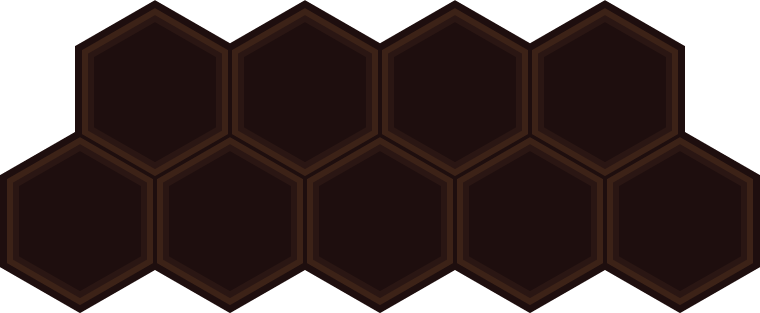
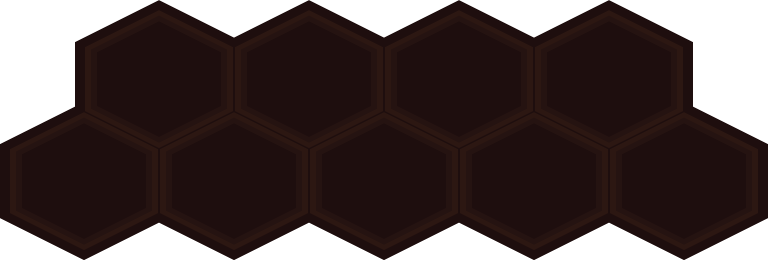
Jason's Commit #1

diff --git a/PhaserMVC/static/js/main.js b/PhaserMVC/static/js/main.js
@@ -1,7 +1,6 @@
-
 /// <reference path="phaser.js" />
-/// <reference path="GameObjects.js" />
-var game = new Phaser.Game(768, 1000, Phaser.AUTO, 'mainDiv');
+/// <reference path="GameObject.js" />
+var game = new Phaser.Game(768, 954, Phaser.AUTO, 'mainDiv');
 var scale = 1;
 
 var mainState = {
@@ -10,10 +9,10 @@ var mainState = {
     
     preload: function () {
         //Load Art Assets
-        game.load.image('gameBoard', 'static/img/GameBoard.png');
-        game.load.image('handBoard', 'static/img/HandBoard.png');
-        game.load.spritesheet('numberSheet', 'static/img/numbers.png', 18, 22, 33);
-        game.load.spritesheet('cardFrameSheet', 'static/img/cardFrameSheet.png', 150, 172, 8);
+        game.load.image('gameBoard', 'img/GameBoard.png');
+        game.load.image('handBoard', 'img/HandBoard.png');
+        game.load.spritesheet('numberSheet', 'img/numbers.png', 18, 22, 33);
+        game.load.spritesheet('cardFrameSheet', 'img/FrameSheet.png', 150, 140, 6);
         
     },
 
@@ -33,112 +32,110 @@ var mainState = {
     },
 
     update: function() {
-       
+        for (var i = 0; i < this.playerHand.length; i++) {
+            this.playerHand.getAt(i).update();
+        }
     },
 
     buildGameBoard: function () {
-        this.gameBoard = game.add.sprite(game.world.centerX, 20 * scale, 'gameBoard');
-        this.gameBoard.anchor.setTo(0.5, 0);
+        this.gameBoard = game.add.sprite(game.world.centerX, Math.round(game.world.centerY - 100 * scale), 'gameBoard');
+        this.gameBoard.anchor.setTo(0.5, 0.5);
 
         // Create a group of empty hexes
         this.emptyGameBoardHexes = game.add.group();
         var gameBoardPositions = [
         //1st Row
             //Hex0
-            { x: Math.round((this.gameBoard.x - 225) * scale), y: Math.round((this.gameBoard.y + 6) * scale) },
+            { x: Math.round((this.gameBoard.x - 150) * scale), y: Math.round((this.gameBoard.y - 204) * scale) },
             //Hex1
-            { x: Math.round((this.gameBoard.x - 75) * scale), y: Math.round((this.gameBoard.y + 6) * scale) },
+            { x: Math.round((this.gameBoard.x + 0) * scale), y: Math.round((this.gameBoard.y - 204) * scale) },
             //Hex2
-            { x: Math.round((this.gameBoard.x + 75) * scale), y: Math.round((this.gameBoard.y + 6) * scale) },
+            { x: Math.round((this.gameBoard.x + 150) * scale), y: Math.round((this.gameBoard.y - 204) * scale) },
 
         //2nd Row
             //Hex3
-            { x: Math.round((this.gameBoard.x - 300) * scale), y: Math.round((this.gameBoard.y + 135) * scale) },
+            { x: Math.round((this.gameBoard.x - 225) * scale), y: Math.round((this.gameBoard.y - 102) * scale) },
             //Hex4
-            { x: Math.round((this.gameBoard.x - 150) * scale), y: Math.round((this.gameBoard.y + 135) * scale) },
+            { x: Math.round((this.gameBoard.x - 75) * scale), y: Math.round((this.gameBoard.y - 102) * scale) },
             //Hex5
-            { x: Math.round((this.gameBoard.x + 0) * scale), y: Math.round((this.gameBoard.y + 135) * scale) },
+            { x: Math.round((this.gameBoard.x + 75) * scale), y: Math.round((this.gameBoard.y - 102) * scale) },
             //Hex6
-            { x: Math.round((this.gameBoard.x + 150) * scale), y: Math.round((this.gameBoard.y + 135) * scale) },
+            { x: Math.round((this.gameBoard.x + 225) * scale), y: Math.round((this.gameBoard.y - 102) * scale) },
 
         //3rd Row
             //Hex7
-            { x: Math.round((this.gameBoard.x - 375) * scale), y: Math.round((this.gameBoard.y + 264) * scale) },
+            { x: Math.round((this.gameBoard.x - 300) * scale), y: Math.round((this.gameBoard.y + 0) * scale) },
             //Hex8
-            { x: Math.round((this.gameBoard.x - 225) * scale), y: Math.round((this.gameBoard.y + 264) * scale) },
+            { x: Math.round((this.gameBoard.x - 150) * scale), y: Math.round((this.gameBoard.y + 0) * scale) },
             //Hex9
-            { x: Math.round((this.gameBoard.x - 75) * scale), y: Math.round((this.gameBoard.y + 264) * scale) },
+            { x: Math.round((this.gameBoard.x + 0) * scale), y: Math.round((this.gameBoard.y + 0) * scale) },
             //Hex10
-            { x: Math.round((this.gameBoard.x + 75) * scale), y: Math.round((this.gameBoard.y + 264) * scale) },
+            { x: Math.round((this.gameBoard.x + 150) * scale), y: Math.round((this.gameBoard.y + 0) * scale) },
             //Hex11
-            { x: Math.round((this.gameBoard.x + 225) * scale), y: Math.round((this.gameBoard.y + 264) * scale) },
+            { x: Math.round((this.gameBoard.x + 300) * scale), y: Math.round((this.gameBoard.y + 0) * scale) },
 
         //4th Row
             //Hex12
-            { x: Math.round((this.gameBoard.x - 300) * scale), y: Math.round((this.gameBoard.y + 393) * scale) },
+            { x: Math.round((this.gameBoard.x - 225) * scale), y: Math.round((this.gameBoard.y + 102) * scale) },
             //Hex13
-            { x: Math.round((this.gameBoard.x - 150) * scale), y: Math.round((this.gameBoard.y + 393) * scale) },
+            { x: Math.round((this.gameBoard.x - 75) * scale), y: Math.round((this.gameBoard.y + 102) * scale) },
             //Hex14
-            { x: Math.round((this.gameBoard.x + 0) * scale), y: Math.round((this.gameBoard.y + 393) * scale) },
+            { x: Math.round((this.gameBoard.x + 75) * scale), y: Math.round((this.gameBoard.y + 102) * scale) },
             //Hex15
-            { x: Math.round((this.gameBoard.x + 150) * scale), y: Math.round((this.gameBoard.y + 393) * scale) },
+            { x: Math.round((this.gameBoard.x + 225) * scale), y: Math.round((this.gameBoard.y + 102) * scale) },
 
         //5th Row
             //Hex16
-            { x: Math.round((this.gameBoard.x - 225) * scale), y: Math.round((this.gameBoard.y + 522) * scale) },
+            { x: Math.round((this.gameBoard.x - 150) * scale), y: Math.round((this.gameBoard.y + 204) * scale) },
             //Hex17
-            { x: Math.round((this.gameBoard.x - 75) * scale), y: Math.round((this.gameBoard.y + 522) * scale) },
+            { x: Math.round((this.gameBoard.x + 0) * scale), y: Math.round((this.gameBoard.y + 204) * scale) },
             //Hex18
-            { x: Math.round((this.gameBoard.x + 75) * scale), y: Math.round((this.gameBoard.y + 522) * scale) },
+            { x: Math.round((this.gameBoard.x + 150) * scale), y: Math.round((this.gameBoard.y + 204) * scale) },
         ];
 
         this.emptyGameBoardHexes.createMultiple(19, 'cardFrameSheet', 0, true);
         for (var i = 0; i < this.emptyGameBoardHexes.length; i++) {
             this.emptyGameBoardHexes.getAt(i).x = gameBoardPositions[i].x;
             this.emptyGameBoardHexes.getAt(i).y = gameBoardPositions[i].y;
+            this.emptyGameBoardHexes.getAt(i).anchor.setTo(0.5, 0.5);
         }
     },
     buildHandBoard: function () {
-        this.handBoard = game.add.sprite(game.world.centerX, game.world.height - 6 * scale, 'handBoard');
-        this.handBoard.anchor.setTo(0.5, 1);
+        this.handBoard = game.add.sprite(game.world.centerX, game.world.height - 140 * scale, 'handBoard');
+        this.handBoard.anchor.setTo(0.5, 0.5);
 
         // Create a group of empty hexes
         this.playerHand = game.add.group();
         var handBoardPositions = [
         //1st Row
             //Hex0
-            { x: Math.round((this.handBoard.x - 300) * scale), y: Math.round((this.handBoard.y - 307) * scale) },
+            { x: Math.round((this.handBoard.x - 225) * scale), y: Math.round((this.handBoard.y - 51) * scale) },
             //Hex1
-            { x: Math.round((this.handBoard.x - 150) * scale), y: Math.round((this.handBoard.y - 307) * scale) },
+            { x: Math.round((this.handBoard.x - 75) * scale), y: Math.round((this.handBoard.y - 51) * scale) },
             //Hex2
-            { x: Math.round((this.handBoard.x + 0) * scale), y: Math.round((this.handBoard.y - 307) * scale) },
+            { x: Math.round((this.handBoard.x + 75) * scale), y: Math.round((this.handBoard.y - 51) * scale) },
             //Hex3
-            { x: Math.round((this.handBoard.x + 150) * scale), y: Math.round((this.handBoard.y - 307) * scale) },
+            { x: Math.round((this.handBoard.x + 225) * scale), y: Math.round((this.handBoard.y - 51) * scale) },
 
         //2nd Row
             //Hex4
-            { x: Math.round((this.handBoard.x - 375) * scale), y: Math.round((this.handBoard.y - 178) * scale) },
+            { x: Math.round((this.handBoard.x - 300) * scale), y: Math.round((this.handBoard.y + 51) * scale) },
             //Hex5
-            { x: Math.round((this.handBoard.x - 225) * scale), y: Math.round((this.handBoard.y - 178) * scale) },
+            { x: Math.round((this.handBoard.x - 150) * scale), y: Math.round((this.handBoard.y + 51) * scale) },
             //Hex6
-            { x: Math.round((this.handBoard.x - 75) * scale), y: Math.round((this.handBoard.y - 178) * scale) },
+            { x: Math.round((this.handBoard.x + 0) * scale), y: Math.round((this.handBoard.y + 51) * scale) },
             //Hex7
-            { x: Math.round((this.handBoard.x + 75) * scale), y: Math.round((this.handBoard.y - 178) * scale) },
+            { x: Math.round((this.handBoard.x + 150) * scale), y: Math.round((this.handBoard.y + 51) * scale) },
             //Hex8
-            { x: Math.round((this.handBoard.x + 225) * scale), y: Math.round((this.handBoard.y - 178) * scale) },
+            { x: Math.round((this.handBoard.x + 300) * scale), y: Math.round((this.handBoard.y + 51) * scale) },
         ];
 
         //create 9 cards
         for (var i = 0; i < 9; i++) {
             var point = { x: handBoardPositions[i].x, y: handBoardPositions[i].y };
-            var card = new Card(point, this.playerHand);            
+            var card = new Card(point, this.playerHand);
         }
-
-
-        
     },
-    
-    
 };
 
 game.state.add('main', mainState);

diff --git a/PhaserMVC/static/js/GameObjects.js b/PhaserMVC/static/js/GameObjects.js
@@ -1,11 +1,17 @@
-/// <reference path="main.js" />
-function Card(point, group) {
+/// <reference path="phaser.js" />
+/// <reference path="main.js" />
+Card = function (point, group) {
     this.position = point;
-    this.cardImg = game.add.sprite(this.position.x, this.position.y, 'cardFrameSheet', 4, group);     
+    this.cardImg = game.add.sprite(this.position.x, this.position.y, 'cardFrameSheet', 4, group);
+    this.numberLeft = game.add.sprite(this.position.x - Math.round(62 * scale), 
+                                      this.position.y - Math.round(20 * scale), 'numberSheet', 0);
+    this.numberLeft.anchor.setTo(0.5, 0.5);
+    this.cardImg.anchor.setTo(0.5, 0.5);
     this.origPos = CopyObject(point);
     this.cardImg.inputEnabled = true;
     this.cardImg.input.enableDrag(true);
     this.cardImg.events.onDragStop.add(this.dragStop, this);
+    
 }
 
 Card.prototype.dragStop = function(cardImg){
@@ -15,7 +21,8 @@ Card.prototype.dragStop = function(cardImg){
         
     for(var i=0; i<mainState.emptyGameBoardHexes.length; i++){
         var boardHex = mainState.emptyGameBoardHexes.getAt(i);
-        if(boardHex.position.x < cardCenter.x && cardCenter.x < boardHex.position.x + boardHex.width && boardHex.position.y < cardCenter.y && cardCenter.y < boardHex.position.y+boardHex.width){
+        if(boardHex.position.x < cardCenter.x && cardCenter.x < boardHex.position.x + boardHex.width &&
+         boardHex.position.y < cardCenter.y && cardCenter.y < boardHex.position.y+boardHex.width){
             //found hex on board
             onBoard = true;
             cardImg.position = CopyObject(boardHex.position);
@@ -26,4 +33,8 @@ Card.prototype.dragStop = function(cardImg){
     if(!onBoard){
         cardImg.position = CopyObject(this.origPos);
     }
+}
+
+Card.prototype.update = function () {
+    this.numberLeft.x = this.position.x;
 }
